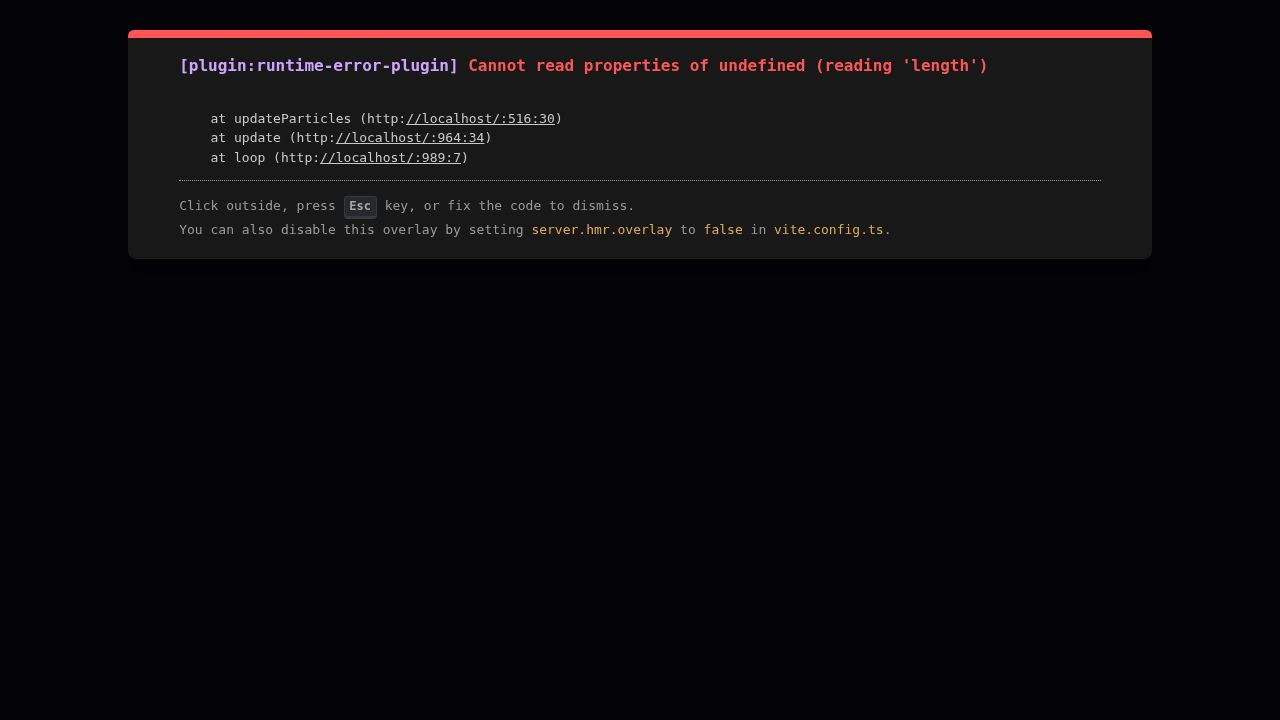
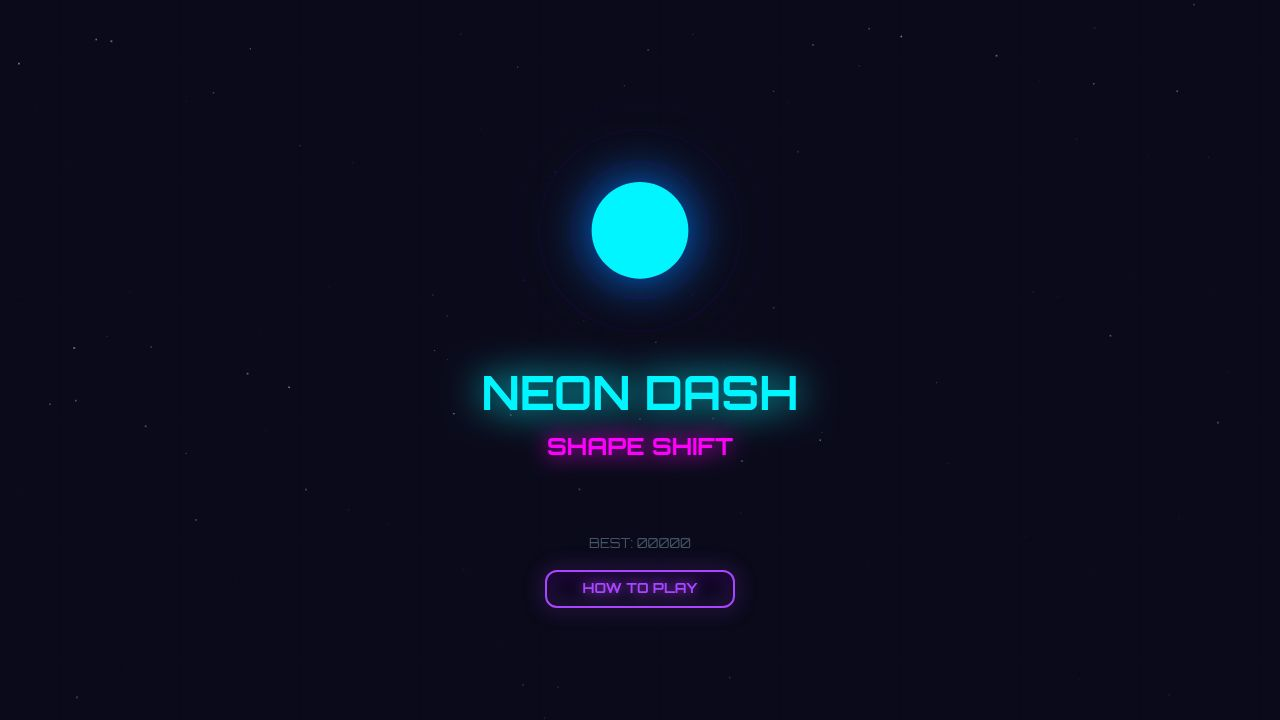
Improve game performance by optimizing audio and visual rendering
Refactors audio buffer creation to use a pre-allocated pool, adds debouncing to the shape cycle sound effect, and reduces shadow blur on unselected shapes to improve frame rate.

Replit-Commit-Author: Agent
Replit-Commit-Session-Id: 723da089-d1c6-46ff-a494-7c70c0e5d9f9
Replit-Commit-Checkpoint-Type: full_checkpoint
Replit-Commit-Event-Id: c47892d1-f154-4701-8efc-6f326aaa48b9
Replit-Commit-Screenshot-Url: https://storage.googleapis.com/screenshot-production-us-central1/8c75f26e-1c60-45c2-877f-25965e99771e/723da089-d1c6-46ff-a494-7c70c0e5d9f9/x3h9awN
Replit-Helium-Checkpoint-Created: true

diff --git a/artifacts/neon-dash/index.html b/artifacts/neon-dash/index.html
@@ -151,12 +151,27 @@
     const LOOKAHEAD = 0.1;
     const TICK_MS   = 50;
 
+    // Pre-cached noise buffers — avoids per-call AudioBuffer allocation
+    const NOISE_POOL = 8;
+    let noisePool = null, noiseIdx = 0;
+    function buildNoisePool() {
+      noisePool = [];
+      const len = Math.ceil(ac.sampleRate * 0.32); // longest noise we need (~0.2s snare)
+      for (let i = 0; i < NOISE_POOL; i++) {
+        const buf  = ac.createBuffer(1, len, ac.sampleRate);
+        const data = buf.getChannelData(0);
+        for (let j = 0; j < len; j++) data[j] = Math.random() * 2 - 1;
+        noisePool.push(buf);
+      }
+    }
+
     function init() {
       if (ac) return;
       ac = new (window.AudioContext || window.webkitAudioContext)();
       master = ac.createGain();
       master.gain.value = 1;
       master.connect(ac.destination);
+      buildNoisePool();
     }
     function resume() { if (ac && ac.state === 'suspended') ac.resume(); }
 
@@ -174,13 +189,9 @@
     }
 
     function noise(t, dur, vol, lpHz, lpEnd) {
-      if (!ac) return;
-      const len  = Math.ceil(ac.sampleRate * (dur + 0.05));
-      const buf  = ac.createBuffer(1, len, ac.sampleRate);
-      const data = buf.getChannelData(0);
-      for (let i = 0; i < len; i++) data[i] = Math.random() * 2 - 1;
+      if (!ac || !noisePool) return;
       const src  = ac.createBufferSource();
-      src.buffer = buf;
+      src.buffer = noisePool[noiseIdx++ % NOISE_POOL]; // reuse cached buffer
       const filt = ac.createBiquadFilter();
       filt.type  = 'lowpass';
       filt.frequency.setValueAtTime(lpHz, t);
@@ -193,9 +204,12 @@
     }
 
     // ── SFX ──
+    let lastCycleT = 0;
     function cycle(forward) {
       if (!ac) return;
       const t = ac.currentTime;
+      if (t - lastCycleT < 0.08) return; // debounce rapid firing
+      lastCycleT = t;
       const f = forward ? 660 : 440;
       osc(f,         'sine', t,       0.07, 0.18);
       osc(f * (forward ? 1.5 : 0.67), 'sine', t + 0.04, 0.05, 0.09);
@@ -557,10 +571,10 @@
       ctx.beginPath(); ctx.roundRect(barX + i*(slotW+gap) + 0.5, barY + 0.5, slotW - 1, slotH - 1, 8);
       ctx.stroke(); noGlow();
 
-      // Shape icon (spinning)
+      // Shape icon (spinning) — skip glow on unselected to avoid shadowBlur overhead
       const rot = frameCount * ROT_SPD[s];
       const sz  = sel ? 32 : 26;
-      fillShape(s, sx, sy, sz, col, SGLOW[s], sel ? 16 : 5, rot);
+      fillShape(s, sx, sy, sz, col, SGLOW[s], sel ? 16 : 0, rot);
 
       // Index indicator dots (prev/next arrows)
     }